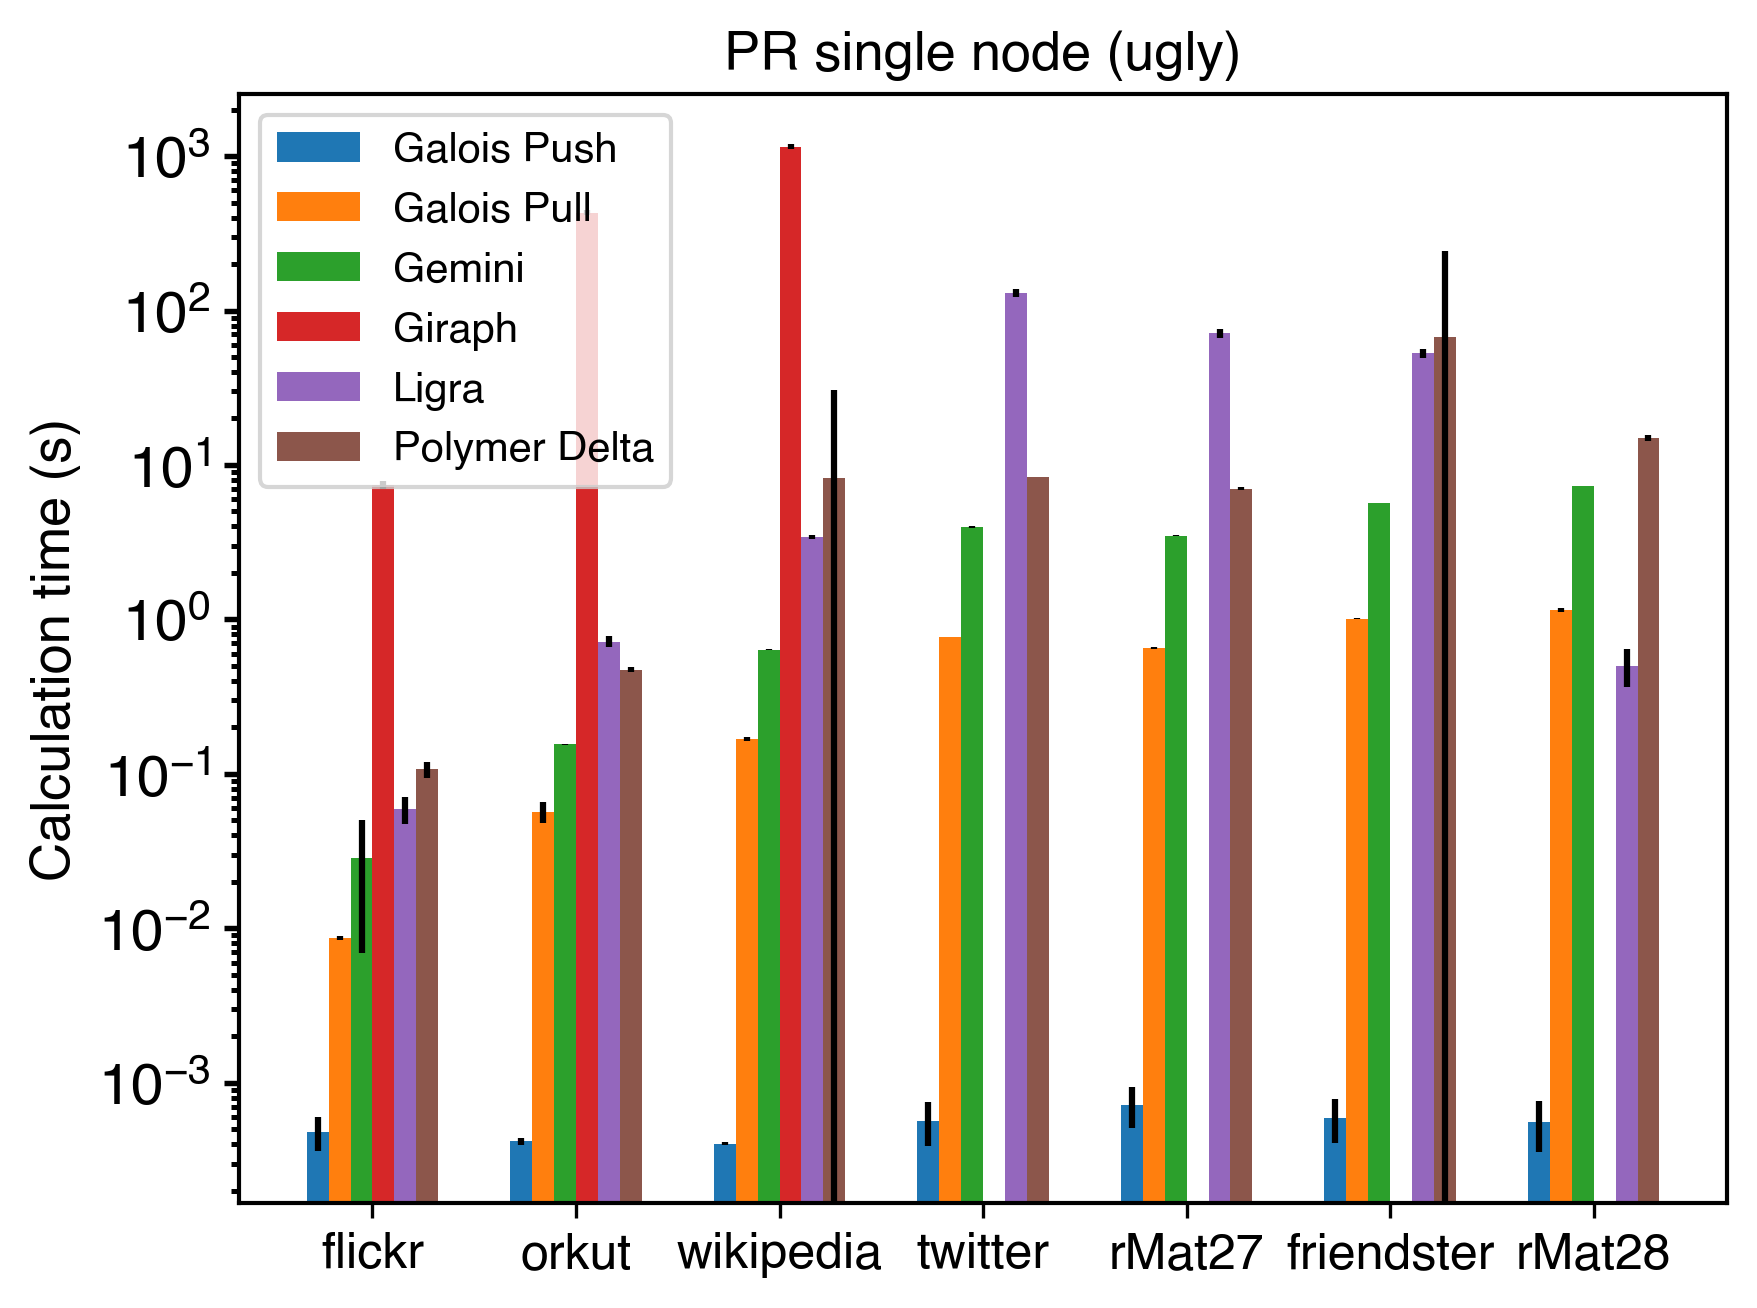
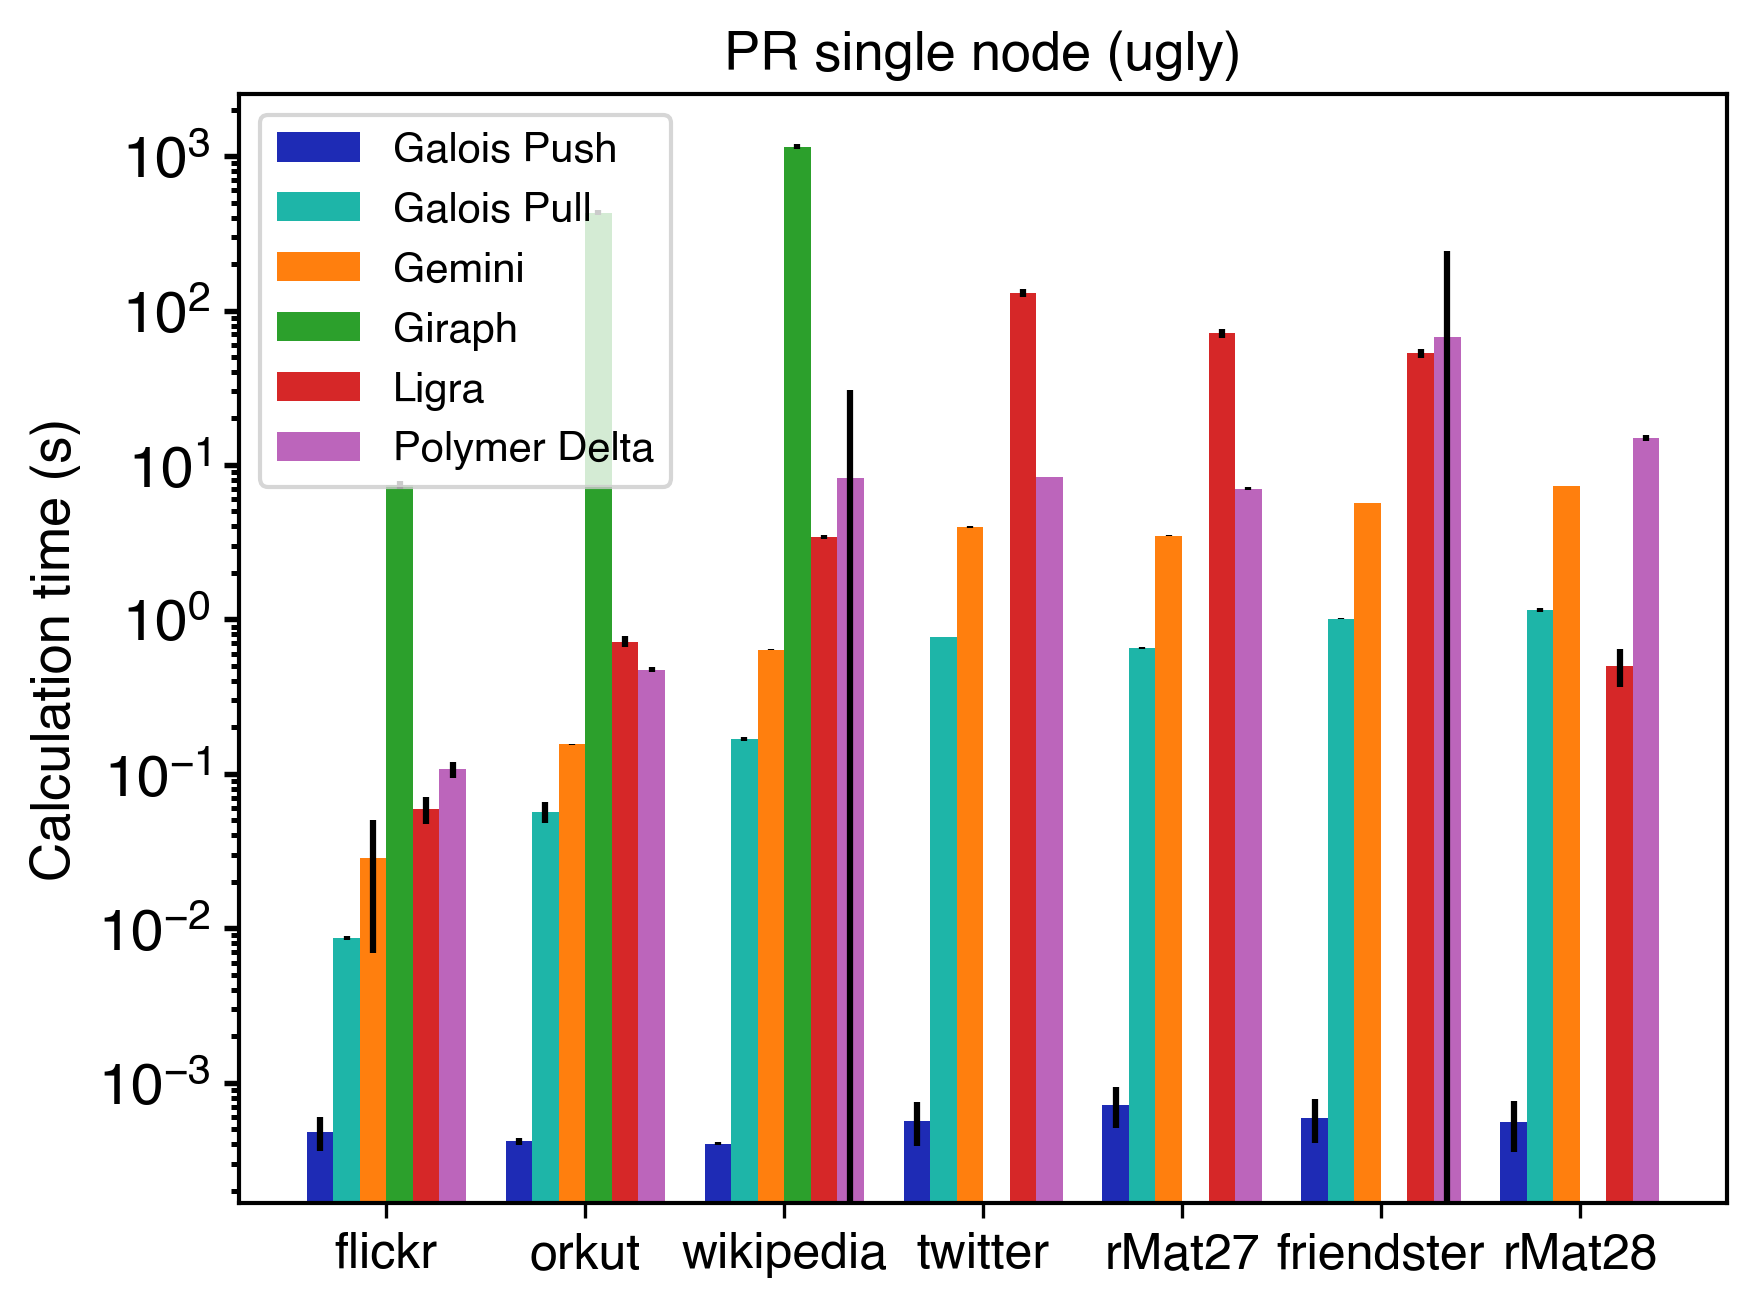
unified colors for each framework

Changed region(s): [[0.1537, 0.0917, 0.9528, 0.9786], [0.1537, 0.0917, 0.2151, 0.367]]

diff --git a/plots/makeplots.py b/plots/makeplots.py
@@ -4,19 +4,29 @@ from plotFunctions import *
 
 
 
-distributed = False
-singleNode = False
+distributed = True
+singleNode = True
 
-sssp = False
-bfs = False
-pr = False
+sssp = True
+bfs = True
+pr = True
 
 calcTimes = False
 execTimes = False
-overheads = True
+overheads = False
 
 
-galoisSpeedup = True
+galoisSpeedup = False
+
+
+colors = {"Galois":"#1f77b4",
+"Galois Push":"#1e2bb5",
+"Galois Pull":"#1eb5a8",
+"Gemini":"#ff7f0e",
+"Giraph":"#2ca02c",
+"Ligra":"#d62728",
+"Polymer":"#9467bd",
+"Polymer Delta":"#bc65bb"}
 
 ### PLOTS
 #SINGLE NODE
@@ -24,14 +34,15 @@ if singleNode and ( sssp or bfs or pr or calcTimes or execTimes or overheads):
 	## CALC TIME
 	#SSSP
 	if sssp or calcTimes:
-		grouped_bar_plot(graphs, frameworks, calcTimeSSSP_singleNode, yErrs=yErrCalcSSSP_singleNode, title='SSSP single node', yLabel='Calculation time (s)', saveToFile="singleNodeSSSP_calcTime.png")
+		grouped_bar_plot(graphs[:-1], frameworks, calcTimeSSSP_singleNode, yErrs=yErrCalcSSSP_singleNode, yLabel='Calculation time (s)', saveToFile="singleNodeSSSP_calcTime.png", colors_=colors)
 
 	#BFS
 	if bfs or calcTimes:
-		grouped_bar_plot(graphs, frameworks, calcTimeBFS_singleNode, yErrs=yErrCalcBFS_singleNode, title='BFS single node', yLabel='Calculation time (s)', saveToFile="singleNodeBFS_calcTime.png")
+		grouped_bar_plot(graphs, frameworks, calcTimeBFS_singleNode, yErrs=yErrCalcBFS_singleNode, title='BFS single node', yLabel='Calculation time (s)', saveToFile="singleNodeBFS_calcTime.png", colors_=colors)
 
+	#PR
 	if pr or calcTimes:
-		grouped_bar_plot(graphs, singleNode_frameworks_pr.values(), calcTimePR_singleNode, yErrs=yErrCalcPR_singleNode, title='PR single node (ugly)', yLabel='Calculation time (s)', saveToFile="singleNodePR_calcTime.png", scaleFactor=3.25)
+		grouped_bar_plot(graphs, list(singleNode_frameworks_pr.values()), calcTimePR_singleNode, yErrs=yErrCalcPR_singleNode, title='PR single node (ugly)', yLabel='Calculation time (s)', saveToFile="singleNodePR_calcTime.png", colors_=colors)
 
 
 
@@ -39,14 +50,15 @@ if singleNode and ( sssp or bfs or pr or calcTimes or execTimes or overheads):
 	## EXEC TIME
 	#SSSP
 	if sssp or execTimes:
-		grouped_bar_plot(graphs, frameworks, execTimeSSSP_singleNode, yErrs=yErrExecSSSP_singleNode, title='SSSP single node', yLabel='Execution time (s)', saveToFile="singleNodeSSSP_execTime.png")
+		grouped_bar_plot(graphs[:-1], frameworks, execTimeSSSP_singleNode, yErrs=yErrExecSSSP_singleNode, yLabel='Execution time (s)', saveToFile="singleNodeSSSP_execTime.png", colors_=colors)
 
 	#BFS
 	if bfs or execTimes:
-		grouped_bar_plot(graphs, frameworks, execTimeBFS_singleNode, yErrs=yErrExecBFS_singleNode, title='BFS single node', yLabel='Execution time (s)', saveToFile="singleNodeBFS_execTime.png")
+		grouped_bar_plot(graphs, frameworks, execTimeBFS_singleNode, yErrs=yErrExecBFS_singleNode, title='BFS single node', yLabel='Execution time (s)', saveToFile="singleNodeBFS_execTime.png", colors_=colors)
 
+	#PR
 	if pr or execTimes:
-		grouped_bar_plot(graphs, singleNode_frameworks_pr.values(), execTimePR_singleNode, yErrs=yErrExecPR_singleNode, title='PR single node (ugly)', yLabel='Execution time (s)', saveToFile="singleNodePR_execTime.png")
+		grouped_bar_plot(graphs, list(singleNode_frameworks_pr.values()), execTimePR_singleNode, yErrs=yErrExecPR_singleNode, title='PR single node (ugly)', yLabel='Execution time (s)', saveToFile="singleNodePR_execTime.png", colors_=colors)
 
 
 
@@ -56,20 +68,20 @@ if singleNode and ( sssp or bfs or pr or calcTimes or execTimes or overheads):
 	## OVERHEAD
 	#SSSP
 	if sssp or overheads:
-		grouped_bar_plot(graphs, frameworks, overheadSSSP_singleNode, title='Overhead time of each framework during SSSP', yLabel='Overhead time (s)', saveToFile="singleNodeSSSP_overheadTime.png")
+		grouped_bar_plot(graphs[:-1], frameworks, overheadSSSP_singleNode, yLabel='Overhead time (s)', saveToFile="singleNodeSSSP_overheadTime.png", colors_=colors)
 
-		grouped_bar_plot(graphs, frameworks, overheadSSSPNormalized_singleNode, title='SSSP single node', yLabel='Overhead time (s) (normalized)', saveToFile="singleNodeSSSP_overheadTimeNormalized.png", yScale='linear')
+		grouped_bar_plot(graphs[:-1], frameworks, overheadSSSPNormalized_singleNode, title='SSSP single node', yLabel='Overhead time (s) (normalized)', saveToFile="singleNodeSSSP_overheadTimeNormalized.png", yScale='linear', colors_=colors)
 
 	#BFS
 	if bfs or overheads:
-		grouped_bar_plot(graphs, frameworks, overheadBFS_singleNode, title='Overhead time of each framework during BFS', yLabel='Overhead time (s)', saveToFile="singleNodeBFS_overheadTime.png")
+		grouped_bar_plot(graphs, frameworks, overheadBFS_singleNode, title='Overhead time of each framework during BFS', yLabel='Overhead time (s)', saveToFile="singleNodeBFS_overheadTime.png", colors_=colors)
 
-		grouped_bar_plot(graphs, frameworks, overheadBFSNormalized_singleNode, title='BFS single node', yLabel='Overhead time (s) (normalized)', saveToFile="singleNodeBFS_overheadTimeNormalized.png", yScale='linear')
+		grouped_bar_plot(graphs, frameworks, overheadBFSNormalized_singleNode, title='BFS single node', yLabel='Overhead time (s) (normalized)', saveToFile="singleNodeBFS_overheadTimeNormalized.png", yScale='linear', colors_=colors)
 
 	if pr or overheads:
-		grouped_bar_plot(graphs, singleNode_frameworks_pr.values(), overheadPR_singleNode, title='Overhead time of each framework during PR', yLabel='Overhead time (s)', saveToFile="singleNodePR_overheadTime.png", scaleFactor=3.25)
+		grouped_bar_plot(graphs, list(singleNode_frameworks_pr.values()), overheadPR_singleNode, title='Overhead time of each framework during PR', yLabel='Overhead time (s)', saveToFile="singleNodePR_overheadTime.png", scaleFactor=3.25, colors_=colors)
 
-		grouped_bar_plot(graphs, singleNode_frameworks_pr.values(), overheadPRNormalized_singleNode, title='PR single node', yLabel='Overhead time (s) (normalized)', saveToFile="singleNodePR_overheadTimeNormalized.png", yScale='linear', scaleFactor=3.25)
+		grouped_bar_plot(graphs, list(singleNode_frameworks_pr.values()), overheadPRNormalized_singleNode, title='PR single node', yLabel='Overhead time (s) (normalized)', saveToFile="singleNodePR_overheadTimeNormalized.png", yScale='linear', colors_=colors)
 
 
 
@@ -109,49 +121,50 @@ if distributed and ( sssp or bfs or pr or calcTimes or execTimes or overheads):
 	## CALC TIME
 	#SSSP
 
+
 	if sssp or calcTimes:
-		grouped_bar_plot(graphs, dist_frameworks_sssp.values(), calcTimeSSSP_distributed, yErrs=yErrCalcSSSP_distributed, yLabel='Calculation time (s)', saveToFile="distributedSSSP_calcTime.png")
+		grouped_bar_plot(graphs, list(dist_frameworks_sssp.values()), calcTimeSSSP_distributed, yErrs=yErrCalcSSSP_distributed, yLabel='Calculation time (s)', saveToFile="distributedSSSP_calcTime.png", colors_=colors)
 
 	#BFS
 	if bfs or calcTimes:
-		grouped_bar_plot(graphs, dist_frameworks_bfs.values(), calcTimeBFS_distributed, yErrs=yErrCalcBFS_distributed, yLabel='Calculation time (s)', saveToFile="distributedBFS_calcTime.png")
+		grouped_bar_plot(graphs, list(dist_frameworks_bfs.values()), calcTimeBFS_distributed, yErrs=yErrCalcBFS_distributed, yLabel='Calculation time (s)', saveToFile="distributedBFS_calcTime.png", colors_=colors)
 
 	#PR
 	if pr or calcTimes:
-		grouped_bar_plot(graphs, dist_frameworks_pr.values(), calcTimePR_distributed, yErrs=yErrCalcPR_distributed, yLabel='Calculation time (s)', saveToFile="distributedPR_calcTime.png")
+		grouped_bar_plot(graphs, list(dist_frameworks_pr.values()), calcTimePR_distributed, yErrs=yErrCalcPR_distributed, yLabel='Calculation time (s)', saveToFile="distributedPR_calcTime.png", colors_=colors)
 
 
 	## EXEC TIME
 	#SSSP
 	if sssp or execTimes:
-		grouped_bar_plot(graphs, dist_frameworks_sssp.values(), execTimeSSSP_distributed, yErrs=yErrExecSSSP_distributed, yLabel='Execution time (s)', saveToFile="distributedSSSP_execTime.png")
+		grouped_bar_plot(graphs, list(dist_frameworks_sssp.values()), execTimeSSSP_distributed, yErrs=yErrExecSSSP_distributed, yLabel='Execution time (s)', saveToFile="distributedSSSP_execTime.png", colors_=colors)
 
 	#BFS
 	if bfs or execTimes:
-		grouped_bar_plot(graphs, dist_frameworks_bfs.values(), execTimeBFS_distributed, yErrs=yErrExecBFS_distributed, yLabel='Execution time (s)', saveToFile="distributedBFS_execTime.png")
+		grouped_bar_plot(graphs, list(dist_frameworks_bfs.values()), execTimeBFS_distributed, yErrs=yErrExecBFS_distributed, yLabel='Execution time (s)', saveToFile="distributedBFS_execTime.png", colors_=colors)
 
 	#PR
 	if pr or calcTimes:
-		grouped_bar_plot(graphs, dist_frameworks_pr.values(), execTimePR_distributed, yErrs=yErrExecPR_distributed, yLabel='Calculation time (s)', saveToFile="distributedPR_execTime.png")
+		grouped_bar_plot(graphs, list(dist_frameworks_pr.values()), execTimePR_distributed, yErrs=yErrExecPR_distributed, yLabel='Calculation time (s)', saveToFile="distributedPR_execTime.png", colors_=colors)
 
 	## OVERHEAD
 	#SSSP
 	if sssp or overheads:
-		grouped_bar_plot(graphs, dist_frameworks_sssp.values(), overheadSSSP_distributed, title='Overhead time of each framework during SSSP', yLabel='Overhead time (s)', saveToFile="distributedSSSP_overheadTime.png")
+		grouped_bar_plot(graphs, list(dist_frameworks_sssp.values()), overheadSSSP_distributed, title='Overhead time of each framework during SSSP', yLabel='Overhead time (s)', saveToFile="distributedSSSP_overheadTime.png", colors_=colors)
 
-		grouped_bar_plot(graphs, dist_frameworks_sssp.values(), overheadSSSPNormalized_distributed, title='SSSP distributed', yLabel='Overhead time (s) (normalized)', saveToFile="distributedSSSP_overheadTimeNormalized.png", yScale='linear')
+		grouped_bar_plot(graphs, list(dist_frameworks_sssp.values()), overheadSSSPNormalized_distributed, title='SSSP distributed', yLabel='Overhead time (s) (normalized)', saveToFile="distributedSSSP_overheadTimeNormalized.png", yScale='linear', colors_=colors)
 
-		grouped_bar_plot(graphs, dist_frameworks_sssp.values(), overheadSSSP_distributed_normalizedToGalois, yLabel='Galois Push overhead times', saveToFile="distributedSSSP_overheadTimeNormalizedToGalois.png", yScale='log')
+		grouped_bar_plot(graphs, list(dist_frameworks_sssp.values()), overheadSSSP_distributed_normalizedToGalois, yLabel='Galois Push overhead times', saveToFile="distributedSSSP_overheadTimeNormalizedToGalois.png", yScale='log', colors_=colors)
 
 	#BFS
 	if bfs or overheads:
-		grouped_bar_plot(graphs, dist_frameworks_bfs.values(), overheadBFS_distributed, title='Overhead time of each framework during BFS', yLabel='Overhead time (s)', saveToFile="distributedBFS_overheadTime.png")
+		grouped_bar_plot(graphs, list(dist_frameworks_bfs.values()), overheadBFS_distributed, title='Overhead time of each framework during BFS', yLabel='Overhead time (s)', saveToFile="distributedBFS_overheadTime.png", colors_=colors)
 
-		grouped_bar_plot(graphs, dist_frameworks_bfs.values(), overheadBFSNormalized_distributed, title='BFS distributed', yLabel='Overhead time (s) (normalized)', saveToFile="distributedBFS_overheadTimeNormalized.png", yScale='linear')
+		grouped_bar_plot(graphs, list(dist_frameworks_bfs.values()), overheadBFSNormalized_distributed, title='BFS distributed', yLabel='Overhead time (s) (normalized)', saveToFile="distributedBFS_overheadTimeNormalized.png", yScale='linear', colors_=colors)
 
 	#PR
 	if pr or overheads:
-		grouped_bar_plot(graphs, dist_frameworks_pr.values(), overheadPR_distributed, title='Overhead time of each framework during PR', yLabel='Overhead time (s)', saveToFile="distributedPR_overheadTime.png")
+		grouped_bar_plot(graphs, list(dist_frameworks_pr.values()), overheadPR_distributed, title='Overhead time of each framework during PR', yLabel='Overhead time (s)', saveToFile="distributedPR_overheadTime.png", colors_=colors)
 
-		grouped_bar_plot(graphs, dist_frameworks_pr.values(), overheadPRNormalized_distributed, title='PR distributed', yLabel='Overhead time (s) (normalized)', saveToFile="distributedPR_overheadTimeNormalized.png", yScale='linear')
+		grouped_bar_plot(graphs, list(dist_frameworks_pr.values()), overheadPRNormalized_distributed, title='PR distributed', yLabel='Overhead time (s) (normalized)', saveToFile="distributedPR_overheadTimeNormalized.png", yScale='linear', colors_=colors)
 

diff --git a/plots/makedata.py b/plots/makedata.py
@@ -83,6 +83,8 @@ for f in frameworks:
         fname += "-cpu-96thread" # select Galois thread count here
     k = 0 # graph index
     for g in graphs:
+        if g == 'rMat28':
+            continue
         for i in range(len(graph)):
             if g == graph[i] and fname == algo[i]:
                 tmpCalc.append(calcTime[i])
@@ -102,8 +104,29 @@ for f in frameworks:
     overheadSSSP_singleNode.append(overhead)
     overheadSSSPNormalized_singleNode.append(overheadNormalized)
 
-
-
+if False:
+    k = 0
+    gr = 0
+    s = np.zeros(len(graphs)-1)
+    for f in frameworks:
+        if f == 'Giraph':
+            k += 1
+            continue
+        for i in range(len(calcTimeSSSP_singleNode[k])):
+            s[i] += calcTimeSSSP_singleNode[k][i]
+        k += 1
+    s /= 4
+    print("average calculation time:", s)
+    k = 0
+    for f in frameworks:
+        # if f == 'Giraph':
+        #     k += 1
+        #     continue
+        print(f)
+        for i in range(1, len(execTimeSSSP_singleNode[k])):
+            print(graphs[i], round((execTimeSSSP_singleNode[k][i] / execTimeSSSP_singleNode[0][i]) * 100), "%")
+            print(graphs[i], round(execTimeSSSP_singleNode[k][i] * 100) / 100, "s")
+        k += 1
 
 ## SSSP DISTRIBUTED
 dist_frameworks_sssp = {

diff --git a/plots/plotFunctions.py b/plots/plotFunctions.py
@@ -6,12 +6,11 @@ import matplotlib
 
 #
 # values = [[f1_g1,f1_g2,...],[f2_g1,f2_g2,...],...]
-def grouped_bar_plot(group_names, legend_names, values, yErrs=None, width=0.35, scaleFactor=None, title='', yLabel='', yScale='log', saveToFile=None):
+def grouped_bar_plot(group_names, legend_names, values, colors_=None, yErrs=None, width=0.35, scaleFactor=None, title='', yLabel='', yScale='log', saveToFile=None):
 	group_count = len(group_names)
 
 	if len(legend_names) != len(values):
 		raise Exception("Size mismatch: Expected " + str(len(legend_names)) + " categories, got " + str(len(values)))
-
 
 	if scaleFactor == None:
 		scaleFactor = (len(legend_names) + 1.5) * width
@@ -32,7 +31,10 @@ def grouped_bar_plot(group_names, legend_names, values, yErrs=None, width=0.35, 
 		while group_count > len(tmp):
 			tmp.append(float('nan'))
 
-		ps.append(ax.bar(scaleFactor * ind + i * width, tmp, width, yerr=yErr, bottom=0))
+		if not colors_ == None:
+			ps.append(ax.bar(scaleFactor * ind + i * width, tmp, width, yerr=yErr, bottom=0, color=colors_[legend_names[i]]))
+		else:
+			ps.append(ax.bar(scaleFactor * ind + i * width, tmp, width, yerr=yErr, bottom=0))
 		i += 1
 
 	ax.set_xticks(scaleFactor * ind + (len(legend_names)-1) / 2 * width)
